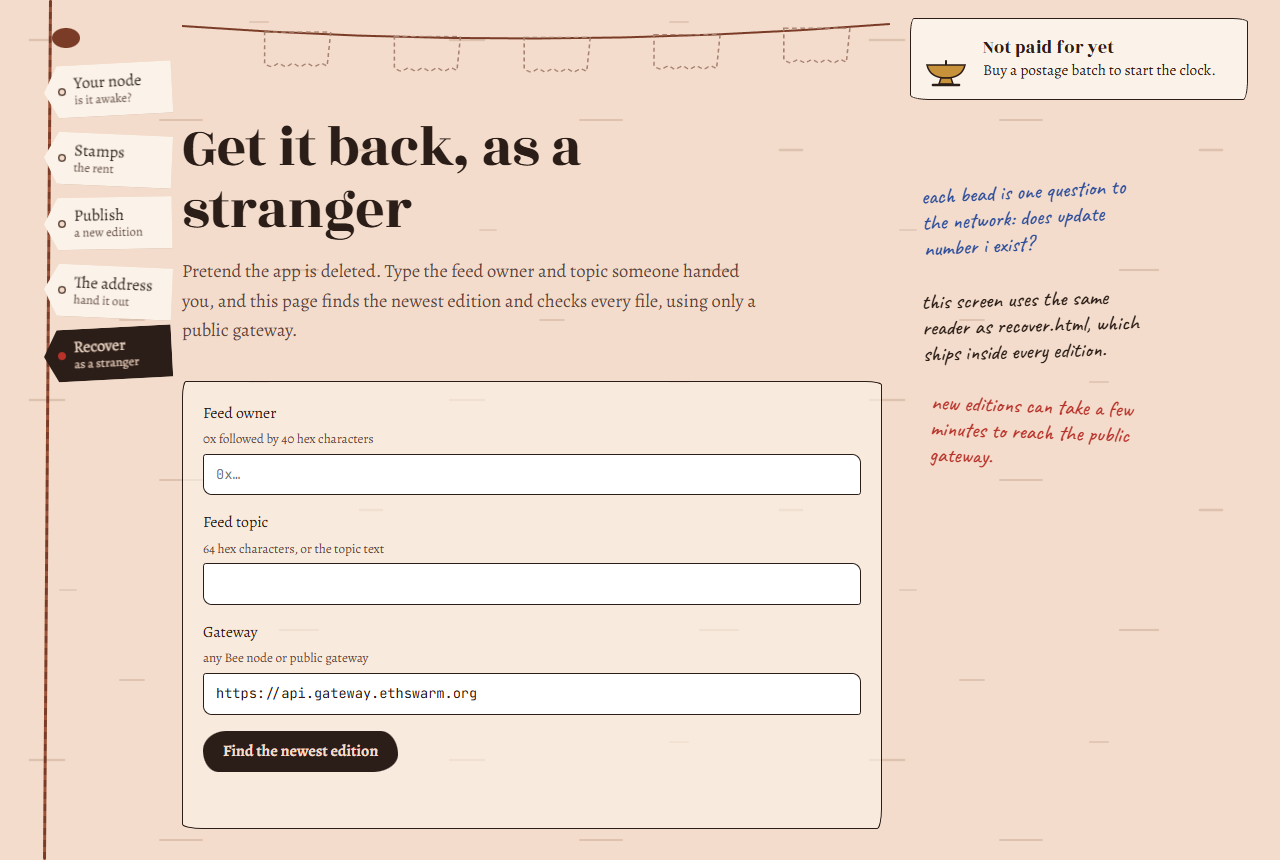
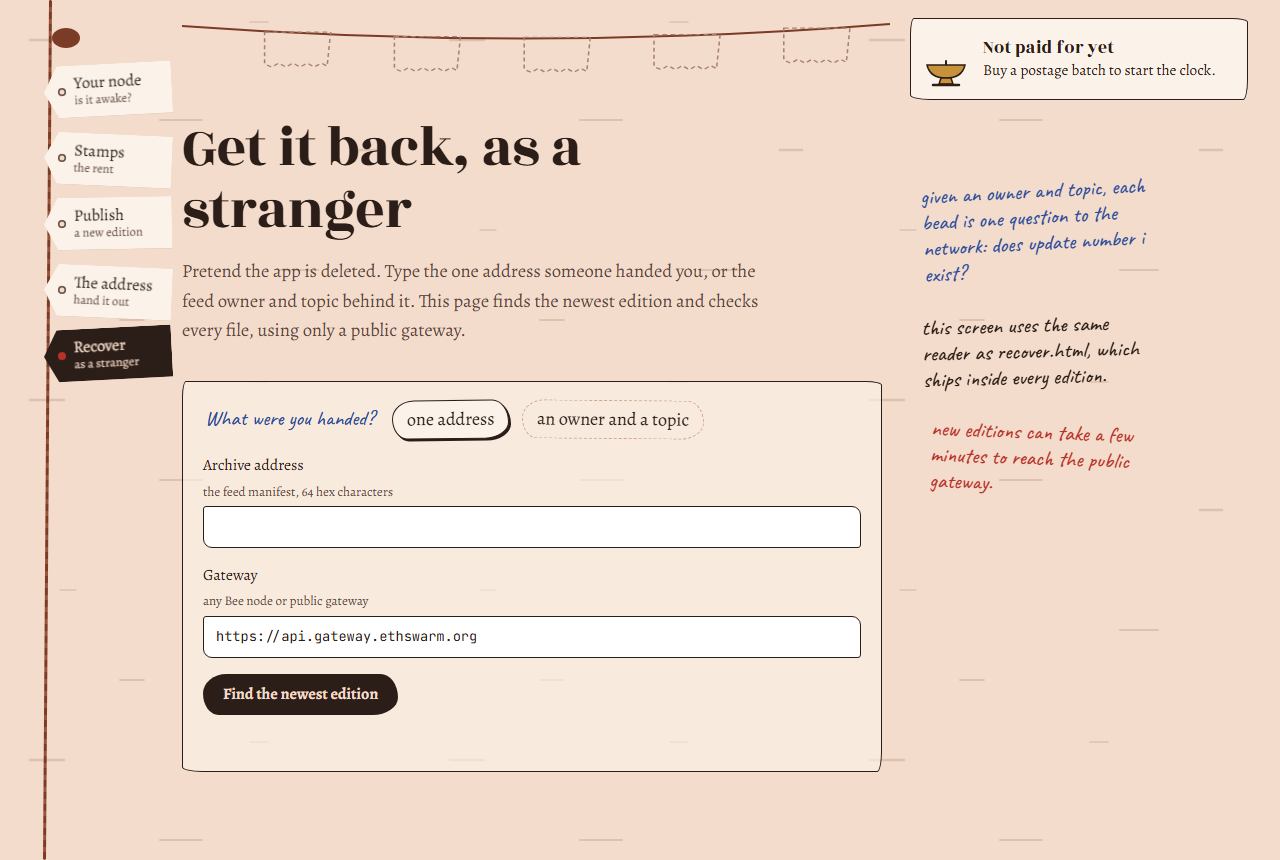
docs: recover by the one address, the live TTL strangers see, and the moved CLI line

Changed region(s): [[0.1562, 0.4535, 0.6875, 0.907], [0.7188, 0.2116, 0.9062, 0.5744], [0.125, 0.3023, 0.5938, 0.393]]

diff --git a/README.md b/README.md
@@ -105,7 +105,7 @@ npm run ui           # dev UI with hot reload on http://localhost:5173
 Buying, topping up and publishing each need an explicit confirmation, and the server refuses
 writes that don't come from its own page.
 
-| Publish: the folios on the desk, then a rehearsal before anything is paid for | Recover as a stranger: owner, topic, gateway, nothing else |
+| Publish: the folios on the desk, then a rehearsal before anything is paid for | Recover as a stranger: the one address (or owner + topic) and a gateway, nothing else |
 |---|---|
 | ![Publish screen](docs/screenshots/publish.png) | ![Recover screen](docs/screenshots/recover.png) |
 
@@ -127,7 +127,8 @@ edition's manifest), verifies each SHA-256, and writes `RECOVERY-REPORT.json`. I
 `src/recover/`, is not allowed to import anything from the publisher — a test and an ESLint rule
 enforce that.
 
-No Node? Open `reader/recover.html` in a browser, or `https://api.gateway.ethswarm.org/bzz/<address>/`.
+No Node? Open `reader/recover.html` in a browser (it takes the address, or owner + topic), or
+`https://api.gateway.ethswarm.org/bzz/<address>/`. The web UI's *Recover* screen does the same.
 
 ## How long is it paid for?
 
@@ -135,19 +136,21 @@ Swarm storage is prepaid rent: a postage batch drains every block, and when it i
 drop what it paid for — **including the feed updates, so the address goes quiet too**. Every
 "paid until" in this project is the node's own batch TTL (`bee.stamp.get(id).duration`), shown
 with the time it was read; when the node doesn't answer the tool says *unknown* rather than
-guessing. Anyone can top up the batch whose ID is in `archive.json`. More in
+guessing. Strangers get the same figure without this code: each edition's gallery asks the gateway
+serving it (`GET /batches` → `batchTTL`) and prints today's estimate next to the publish-time
+snapshot. Anyone can top up the batch whose ID is in `archive.json`. More in
 [`docs/STORAGE-HONESTY.md`](docs/STORAGE-HONESTY.md).
 
 ## How each check is met
 
 | # | Check | Where in the code |
 |---|---|---|
-| 1 | Content published behind a feed; the address shown is the feed's | `src/core/feed.ts:127` `ensureFeedManifest` → `bee.feed.createManifest(batchId, topic, owner)`; `src/core/publish.ts:164` returns it as `archiveAddress`; CLI prints it as "ARCHIVE ADDRESS" (`src/cli/index.ts:150`); UI *The address* (`web/src/pages/AddressPage.tsx`). The edition's collection reference is only ever labelled a snapshot |
+| 1 | Content published behind a feed; the address shown is the feed's | `src/core/feed.ts:127` `ensureFeedManifest` → `bee.feed.createManifest(batchId, topic, owner)`; `src/core/publish.ts:164` returns it as `archiveAddress`; CLI prints it as "ARCHIVE ADDRESS" (`src/cli/index.ts:153`); UI *The address* (`web/src/pages/AddressPage.tsx`). The edition's collection reference is only ever labelled a snapshot |
 | 2 | Feed owner and topic in a tracked, copyable file | `archive.json` (`feed.owner`, `feed.topic`, `address.feedManifest`) and `PUBLISHED.md` (owner and topic each in their own code block), written by `src/core/record.ts:60` `writeArchiveJson` and `:90` `writePublishedMd` from `publish.ts:237`. See [The published identifiers](#the-published-identifiers-where-to-find-them) |
 | 3 | Next feed index read from the network before every update | `src/core/feed.ts:145` `publishToFeed`: `resolveNextIndex` (`:104`, `bee.feed.fetchLatestUpdate` → `feedIndexNext`; on a 404, chunk probing; then the target slot is re-read and stepped past if already taken, `:118`) runs immediately before `writer.uploadReference(batchId, collectionReference, { index: next })` (`:156`). 5xx is retried with back-off, then aborts. No literal, no counter, nothing read from `archive.json` or `.state/`. Tests: `test/feed-index.test.ts` (read-then-write order, 500 ≠ empty feed, false 404 → N+1, occupied slot stepped past). ESLint bans literal indexes in `src/` |
 | 4 | Content larger than a chunk uploaded separately; the feed gets only its reference | `src/core/collection.ts:43` `uploadCollection` → `bee.collection.upload` (whole edition folder); `publish.ts:200`→`:208` passes `uploaded.reference` to `publishToFeed`, which calls `uploadReference`. `uploadPayload` is banned by ESLint (`eslint.config.js`) and `test/guarantees.test.ts` |
 | 5 | Recovery from published identifiers only | `src/recover/main.ts` (`npm run recover -- <owner> <topic>` or `--manifest <ref>`, plus `--bee`) → `src/recover/recover.ts:145` `recover`. Reads no `.env`, `archive.json`, key or local index; the folio list comes from the edition's own `catalogue.json` and manifest. Import isolation enforced by `eslint.config.js` and `test/guarantees.test.ts`. Browser version: `reader/recover.html` |
-| 6 | Batch remaining lifetime read from the node and surfaced | `src/core/stamps.ts:41` `describeBatch` → `bee.stamp.get(id)`; `summarise` (`:21`) uses the node's `duration` (batchTTL) → `src/core/ttl.ts` `termFromTtlSeconds`/`honestSentence`. Shown by CLI `status`/`stamps`/`publish`, the UI lamp, and written to `archive.json.storage`, `PUBLISHED.md` and each edition's `catalogue.json` (`publish.ts:225` re-reads it live before writing). Unknown → says "unknown", never a constant |
+| 6 | Batch remaining lifetime read from the node and surfaced | `src/core/stamps.ts:41` `describeBatch` → `bee.stamp.get(id)`; `summarise` (`:21`) uses the node's `duration` (batchTTL) → `src/core/ttl.ts` `termFromTtlSeconds`/`honestSentence`. Shown by CLI `status`/`stamps`/`publish`, the UI lamp, and written to `archive.json.storage`, `PUBLISHED.md` and each edition's `catalogue.json` (`publish.ts:225` re-reads it live before writing). Strangers see it live too: each edition's gallery asks its gateway (`templates/gallery.html` `liveTerm`, `GET /batches`). Unknown → says "unknown", never a constant |
 | 7 | Reading a feed with no updates has defined first-run behaviour | `src/core/feed.ts:104` `resolveNextIndex`, first-run guard at `:111`: HTTP 404 → index 0, `firstRun: true`, but only if update #0 is absent when read directly as a chunk (`:113`). Bee 2.8 also answers 404 when the lookup fails, so if #0 exists the real head is found by probing chunks (`src/shared/feed-probe.ts`). Any other error is retried, then aborts rather than guessing. `readFeedHead` (`:181`) → `{ empty: true }` under the same guard. `src/recover/recover.ts:113` `findFeedHead` (same check, #0 read with retries) → status `empty-feed` (`:201`), exit code 2. `reader/swarm-lite.js:258` `findLatestIndex` never uses the lookup; #0 absent after retries → `-1n` → "no updates yet" |
 | 8 | No secrets in tracked files | Feed key only in gitignored `.secrets/feed-key.hex` or `.env` (`src/core/signer.ts`); `.env.example` has an empty key; test keys are generated with `randomBytes` at runtime; `scripts/check-secrets.ts` (`npm run check:secrets`) scans every committable file and runs in `npm run check`. Bought batch ids are saved to the gitignored `.state/last-batch.txt` (`src/core/local-state.ts`) before waiting for them to become usable (`src/core/stamps.ts:76` `buyBatch` → `:116` `waitUntilUsable`) |
 
